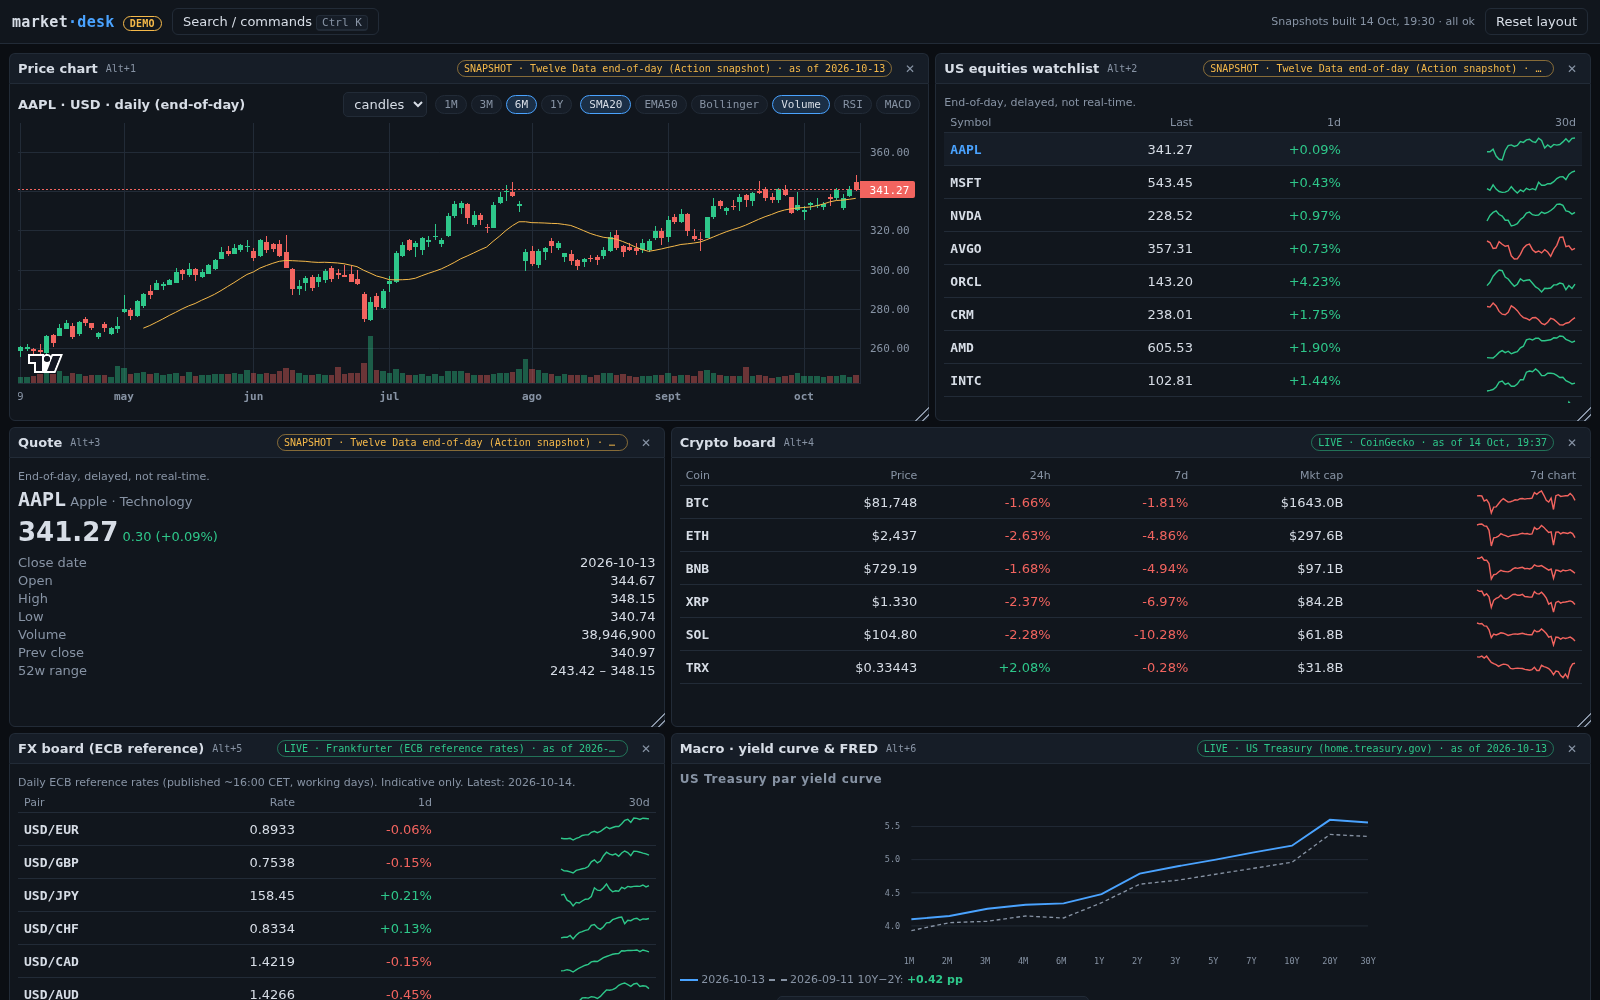
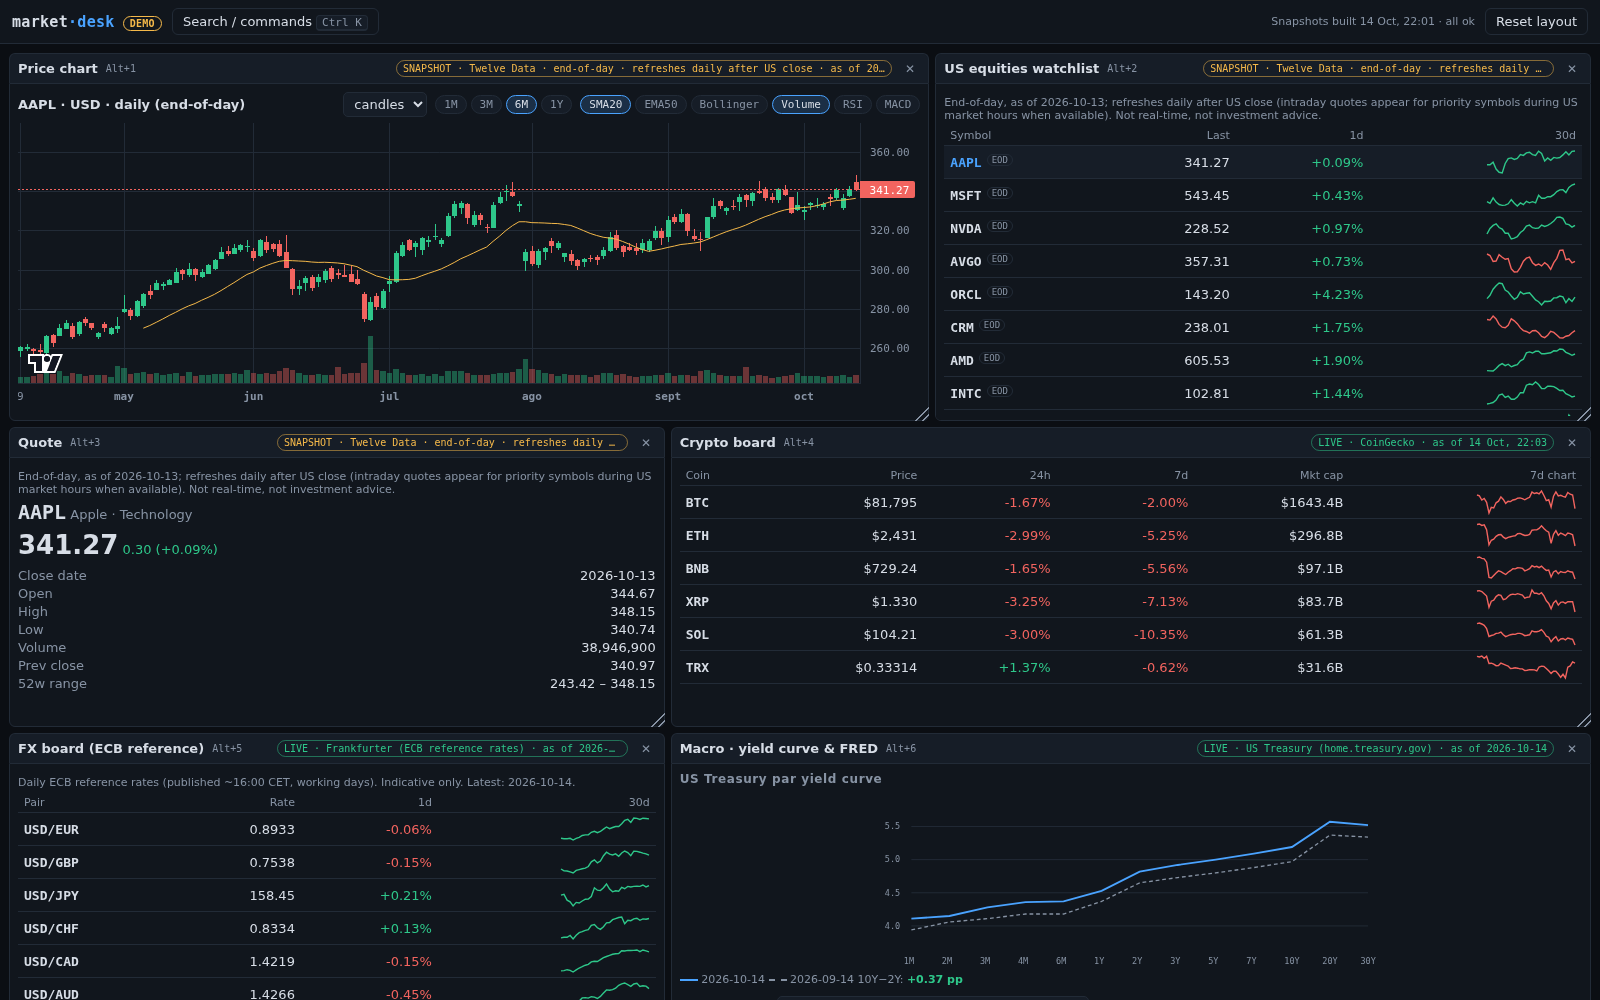
docs: gallery and video retaken with the new equities wording
Claude-Session: https://claude.ai/code/session_01MjA5gve46Q1YXgHSypNzpr

diff --git a/scripts/video/build_video.py b/scripts/video/build_video.py
@@ -98,7 +98,7 @@ def build(music):
     end = card_png("end_music" if music else "end", [("Demo / educational data", FB, 52, WHITE, 30),
                                                     ("Alfredo Ochoa | AI Automation & Data Integration", FB, 30, TEAL, 22),
                                                     (REPO, FR, 30, SLATE, 0)],
-                   small="Free: GitHub Pages + Actions. Not investment advice. Equities: end-of-day, delayed, not real-time.", credit=CREDIT if music else None)
+                   small="Free: GitHub Pages + Actions. Not investment advice. Equities: end-of-day + delayed intraday (priority symbols), never real-time.", credit=CREDIT if music else None)
     segs = []
     def add(name, fn): out = P(f"seg_{name}.mp4"); fn(out); segs.append(out)
     add("a_hook", lambda o: seg_card(hook, 4.5, o))
